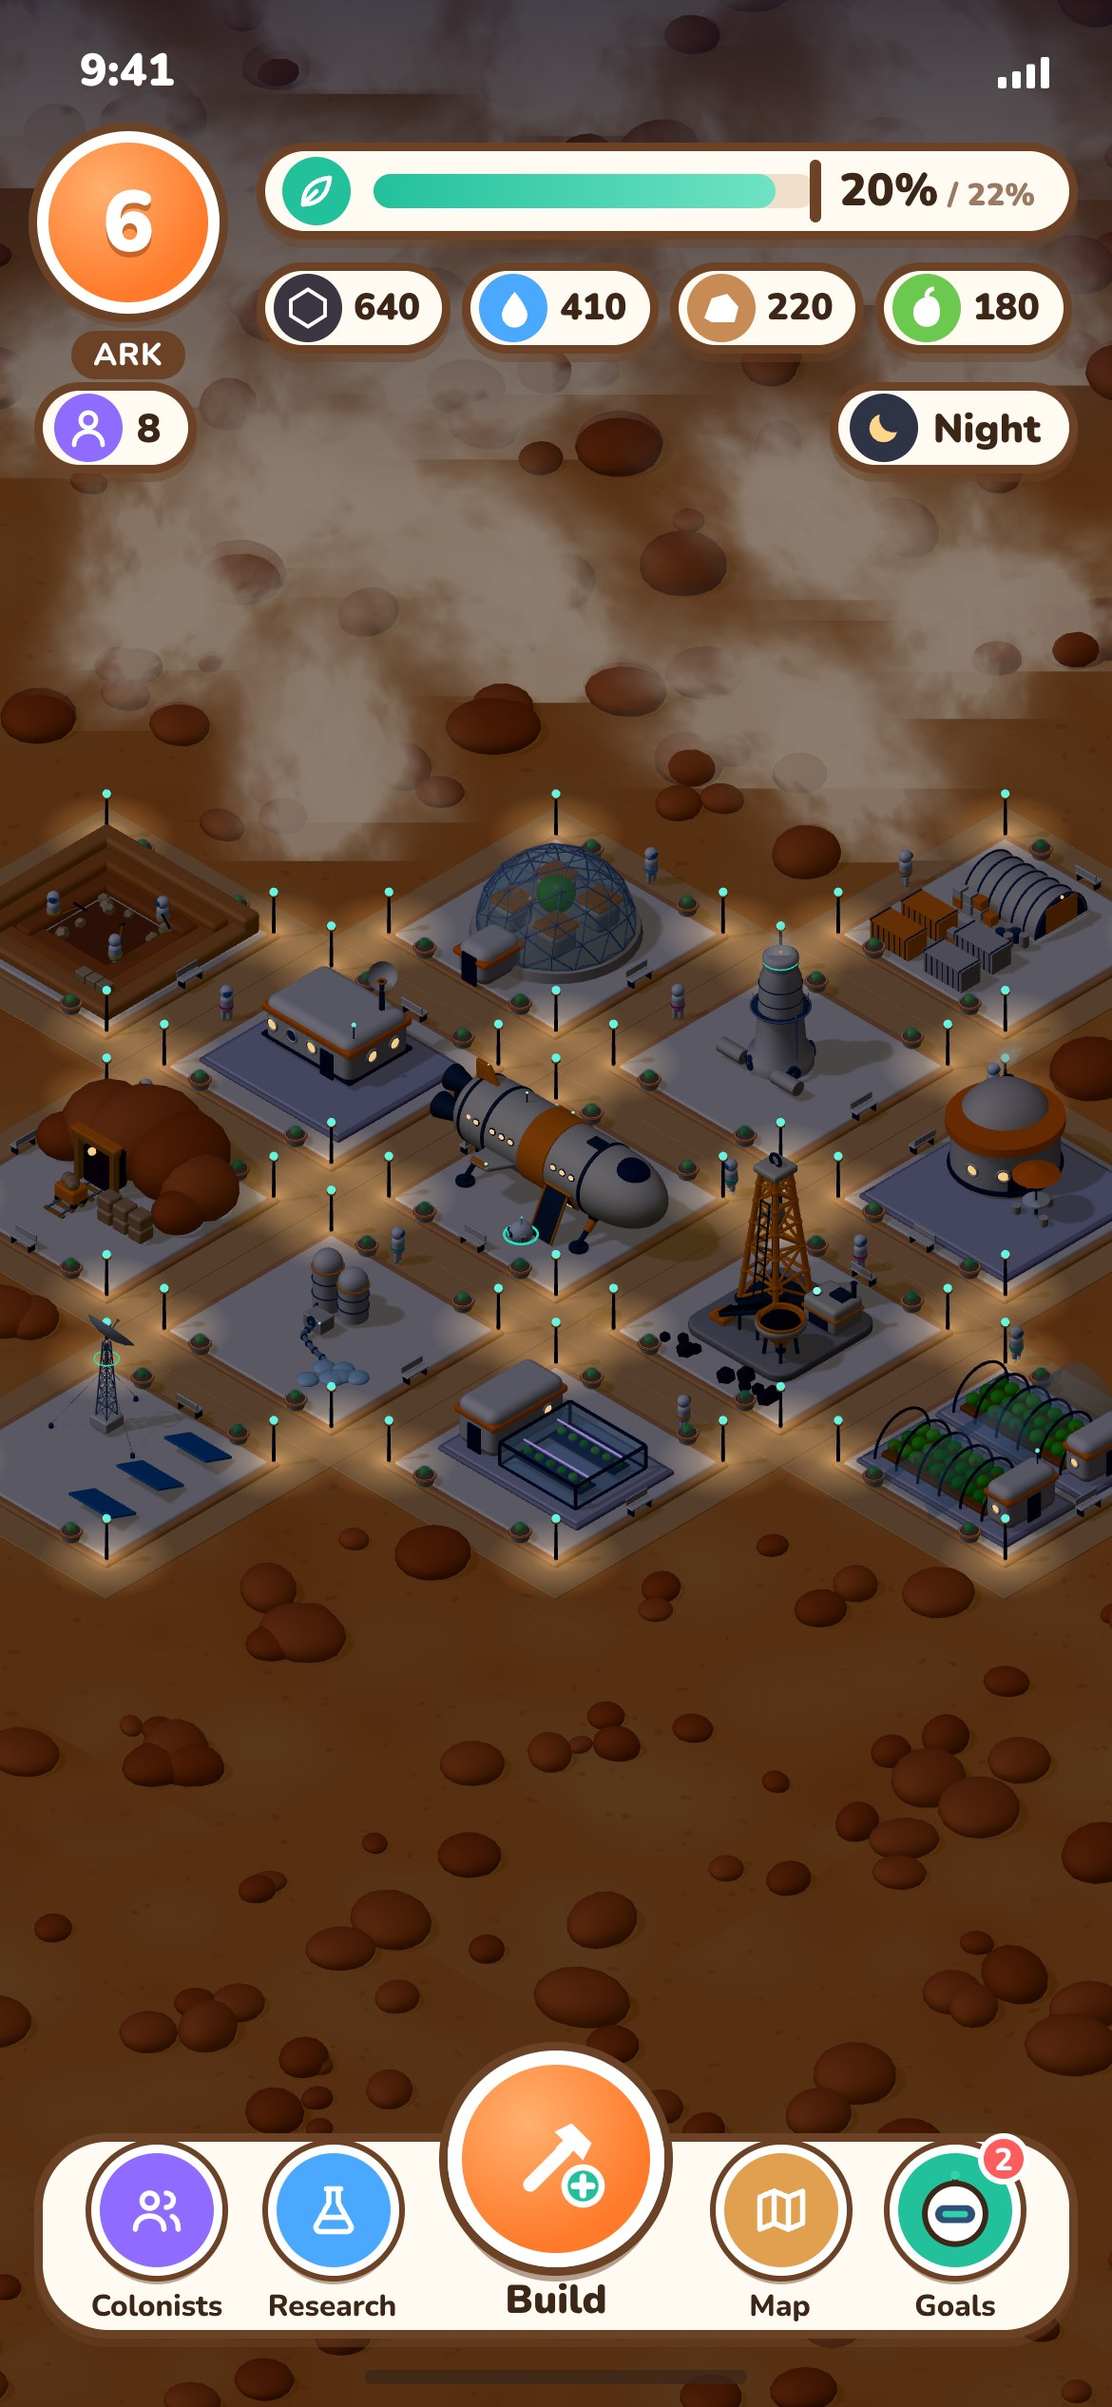
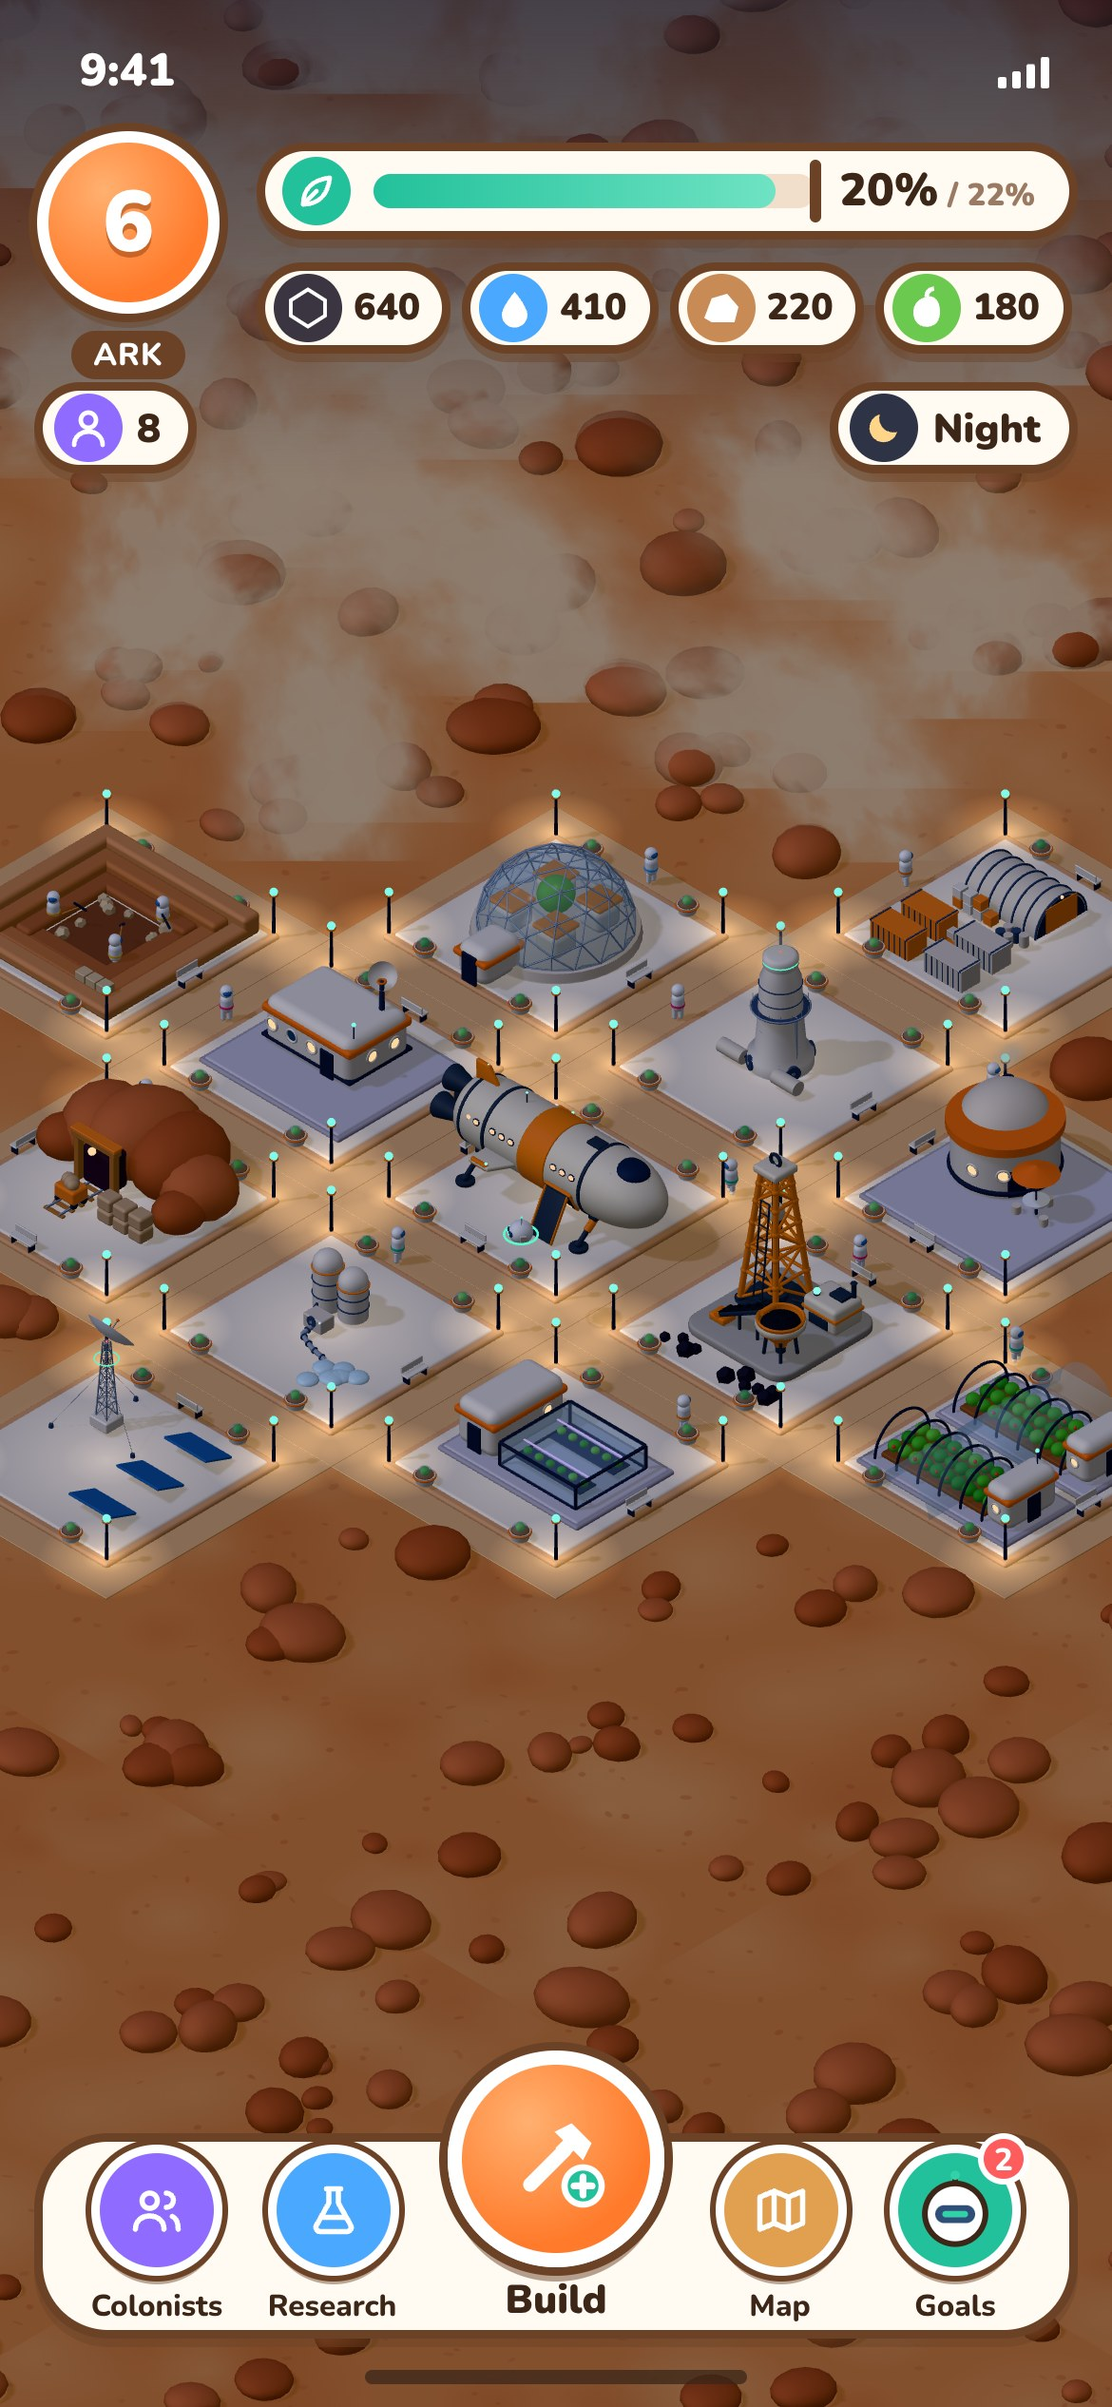
Thin out the street trees and light the example map's nights more
One tree or bush and one hedge per side of a block, fewer trees in the
parks and the woods; at night more moonlight, stronger window, strip and
lamp glow and a soft light around every building.

Claude-Session: https://claude.ai/code/session_0132t83ZzM4eeAffyHvqyc3N

diff --git a/mockup/src/map.js b/mockup/src/map.js
@@ -40,9 +40,9 @@ document.getElementById('view').appendChild(renderer.domElement);
 const scene = new THREE.Scene();
 scene.background = new THREE.Color(LOOK.bg);
 scene.environment = new THREE.PMREMGenerator(renderer).fromScene(new RoomEnvironment(), 0.04).texture;
-scene.environmentIntensity = NIGHT ? 0.06 : 0.35;
-scene.add(new THREE.HemisphereLight(LOOK.sky, LOOK.bounce, NIGHT ? 0.2 : 1.05));
-const sun = new THREE.DirectionalLight(LOOK.sun, NIGHT ? 0.32 : 2.8);
+scene.environmentIntensity = NIGHT ? 0.14 : 0.35;
+scene.add(new THREE.HemisphereLight(LOOK.sky, LOOK.bounce, NIGHT ? 0.4 : 1.05));
+const sun = new THREE.DirectionalLight(LOOK.sun, NIGHT ? 0.62 : 2.8);
 sun.position.set(-30, 80, 50); sun.target.position.set(0, 0, 0); scene.add(sun, sun.target);
 sun.castShadow = true; sun.shadow.mapSize.set(4096, 4096); sun.shadow.bias = -0.0004; sun.shadow.normalBias = 0.04; sun.shadow.radius = 5;
 Object.assign(sun.shadow.camera, { left: -110, right: 110, top: 110, bottom: -110, near: 1, far: 300 }); sun.shadow.camera.updateProjectionMatrix();
@@ -59,6 +59,7 @@ Object.assign(K.M, {
   leaf: flat(0x6cc94f), gold: flat(0xffc65c), white: flat(0xffffff),
 });
 const M = K.M;
+if (NIGHT) for (const [m, k] of [[M.warm, 2.2], [M.teal, 2.2], [M.blueGlow, 2.4], [M.engineGlow, 2.6]]) m.emissiveIntensity = k;
 const C = { pad: 0xfff4e4, padEdge: 0xe8b285, rock: 0xcf7a52, rock2: 0xb9643f, walk: [0xf0cfa6, 0xe9e2d6, 0xeef0f2][S], lawn: 0x7fcf5c, lawn2: 0x6bc04f, soil: 0xa9714a, water: 0x58b8f0, water2: 0x8fd6ff };
 
 const add = (o, x = 0, y = 0, z = 0, ry = 0, s = 1) => { o.position.set(x, y, z); o.rotation.y = ry; o.scale.multiplyScalar(s); scene.add(o); return o; };
@@ -249,7 +250,7 @@ const base = {
 const housing = b => { for (const [x, z] of [[-3, -3], [3, -3], [-3, 3], [3, 3]]) home(b.cx + x, b.cz + z); if (S >= 1) { bush(b.cx, b.cz + 0.2, 0.8); bush(b.cx - 0.3, b.cz - 5.2, 0.6); } if (S === 2) for (let i = 0; i < 3; i++) tree(b.cx - 5 + rnd() * 10, b.cz - 5 + rnd() * 10, 0.6); };
 const park = (b, big) => {
   lawn(b.cx, b.cz, 12, 12);
-  for (let i = 0; i < (big ? 12 : 8); i++) { const a = rnd() * 6.28, r = 2.8 + rnd() * 2.2; if (big || i % 2) tree(b.cx + Math.cos(a) * r, b.cz + Math.sin(a) * r, big ? 0.9 + rnd() * 0.5 : 0.6); else bush(b.cx + Math.cos(a) * r, b.cz + Math.sin(a) * r, 0.9); }
+  for (let i = 0; i < (big ? 8 : 6); i++) { const a = rnd() * 6.28, r = 2.8 + rnd() * 2.2; if (big || i % 2) tree(b.cx + Math.cos(a) * r, b.cz + Math.sin(a) * r, big ? 0.9 + rnd() * 0.5 : 0.6); else bush(b.cx + Math.cos(a) * r, b.cz + Math.sin(a) * r, 0.9); }
   if (S > 1) { add(B.fountain(), b.cx, 0.3, b.cz); pool(b.cx, b.cz, 6, 0x8fd6ff, 0.35); } else bush(b.cx, b.cz, 1.2);
   // hedges along the edges of the lawn, with gaps for the paths
   for (const t of [-3.6, 3.6]) { add(B.hedge(3.4), b.cx + t, 0.3, b.cz + 5.6); add(B.hedge(3.4), b.cx + 5.6, 0.3, b.cz + t, Math.PI / 2); add(B.hedge(3.4), b.cx + t, 0.3, b.cz - 5.6); add(B.hedge(3.4), b.cx - 5.6, 0.3, b.cz + t, Math.PI / 2); }
@@ -292,11 +293,11 @@ for (const b of blocks) {
   if (b.built && S === 0) { plot(b); futurePlot(b); continue; }
   // outside the colony: bare rock on the dusty planet, bushes and young trees later, forest at the end
   if (S === 0) { for (let i = 0; i < 6; i++) rock(b.cx - 6 + rnd() * 12, b.cz - 6 + rnd() * 12, 0.6 + rnd() * 1.4); }
-  else if (S === 1) { for (let i = 0; i < 5; i++) rock(b.cx - 6 + rnd() * 12, b.cz - 6 + rnd() * 12, 0.5 + rnd()); for (let i = 0; i < 7; i++) tree(b.cx - 6 + rnd() * 12, b.cz - 6 + rnd() * 12, 0.45 + rnd() * 0.25); for (let i = 0; i < 4; i++) bush(b.cx - 6 + rnd() * 12, b.cz - 6 + rnd() * 12, 0.6); }
-  else { for (let i = 0; i < 20; i++) tree(b.cx - 7 + rnd() * 14, b.cz - 7 + rnd() * 14, 0.9 + rnd() * 0.6); for (let i = 0; i < 6; i++) bush(b.cx - 7 + rnd() * 14, b.cz - 7 + rnd() * 14, 0.8); }
+  else if (S === 1) { for (let i = 0; i < 5; i++) rock(b.cx - 6 + rnd() * 12, b.cz - 6 + rnd() * 12, 0.5 + rnd()); for (let i = 0; i < 4; i++) tree(b.cx - 6 + rnd() * 12, b.cz - 6 + rnd() * 12, 0.45 + rnd() * 0.25); for (let i = 0; i < 3; i++) bush(b.cx - 6 + rnd() * 12, b.cz - 6 + rnd() * 12, 0.6); }
+  else { for (let i = 0; i < 12; i++) tree(b.cx - 7 + rnd() * 14, b.cz - 7 + rnd() * 14, 0.9 + rnd() * 0.6); for (let i = 0; i < 4; i++) bush(b.cx - 7 + rnd() * 14, b.cz - 7 + rnd() * 14, 0.8); }
 }
 // colonists on the pavements: more of them wake up as the colony grows
-for (const b of builtBlocks) people(b.cx, b.cz, [1, 2, 3][S]);
+for (const b of builtBlocks) { people(b.cx, b.cz, [1, 2, 3][S]); pool(b.cx, b.cz, 13, 0xffd9a0, 0.22); }
 // benches, lamps, planters and flowers on the pavements; they get better with each stage
 const noStreet = new Set(['0,-6', '-1,-7', '2,-6']);
 for (const b of builtBlocks) {
@@ -312,10 +313,10 @@ for (const b of builtBlocks) {
       return;
     }
     // from 50%: a tree or a round bush at both ends, long hedges in between, a bench or flowers in the middle
-    for (const t of [-4.4, 4.4]) { const [x, z] = at(t); if (S > 1 && (h + side + (t > 0)) % 3) add(B.planter(2), x, y, z, 0, 0.85); else bush(x, z, 0.75); }
-    for (const t of [-2.2, 2.2]) { const [x, z] = at(t); add(B.hedge(1.9), x, y, z, ry); }
-    const [x, z] = at(0);
-    if ((h + side) % 2) add(B.bench(S), x, y, z, ax ? (ax > 0 ? Math.PI / 2 : -Math.PI / 2) : (az > 0 ? 0 : Math.PI)); else add(B.flowers(1.4, 0.55), x, y, z, ry);
+    const flip = (h + side) % 2 ? 1 : -1;
+    { const [x, z] = at(4.2 * flip); if (S > 1 && side % 2 === 0) add(B.planter(2), x, y, z, 0, 0.85); else if ((h + side) % 3) bush(x, z, 0.7); }
+    { const [x, z] = at(-2.6 * flip); add(B.hedge(2.6), x, y, z, ry); }
+    if ((h + side) % 2) { const [x, z] = at(0.6 * flip); add(B.bench(S), x, y, z, ax ? (ax > 0 ? Math.PI / 2 : -Math.PI / 2) : (az > 0 ? 0 : Math.PI)); }
   });
   // zebra crossings next to the corner the camera sees
   if (S > 0) for (let i = 0; i < 5; i++) { add(rb(0.35, 0.04, 2.3, dashMat, 0.04, 1), b.cx + 3.6 + i * 0.6, 0.1, b.cz + 8); add(rb(2.3, 0.04, 0.35, dashMat, 0.04, 1), b.cx + 8, 0.1, b.cz + 3.6 + i * 0.6); }

diff --git a/mockup/src/colony.js b/mockup/src/colony.js
@@ -26,7 +26,7 @@ function ball(g, r, m, x, y, z, sy = 1) { const b = new THREE.Mesh(ballGeo, m); 
 function band(g, r, t, m, x, y, z) { const o = new THREE.Mesh(new THREE.TorusGeometry(r, t, 8, 40), m); o.rotation.x = Math.PI / 2; o.position.set(x, y, z); g.add(o); return o; }
 // a round window: a navy (or lit) disk with a cream rim, on the +z or the +x side
 function port(g, x, y, z, r, face = 'z', lit = false) {
-  if (NIGHT && !lit) lit = rnd() < 0.6;
+  if (NIGHT && !lit) lit = rnd() < 0.75;
   const p = new THREE.Group();
   p.add(new THREE.Mesh(new THREE.CircleGeometry(r, 24), lit ? P.warm : P.window));
   const rim = new THREE.Mesh(new THREE.TorusGeometry(r, r * 0.2, 8, 24), P.cream); p.add(rim);
@@ -54,7 +54,7 @@ const done = g => { g.traverse(m => { if (m.isMesh) { m.castShadow = !m.material
 let rnd = Math.random, NIGHT = false;
 export const useRng = f => { rnd = f; };
 // at night more windows are lit
-export const setNight = on => { NIGHT = on; };
+export const setNight = on => { NIGHT = on; if (on) for (const [m, k] of [[P.warm, 2.2], [P.teal, 2.2], [P.grow, 2.4], [P.fire, 3.2]]) m.emissiveIntensity = k; };
 
 // ---------- homes: a cream house with a pitched roof, a navy ring, round windows and a door ----------
 // modern (tier 2): a second floor with wide windows, a flat roof with solar panels, a balcony and plants

diff --git a/docs/notes.md b/docs/notes.md
@@ -113,7 +113,7 @@
 
 | Дата | Промяна | Статус |
 | --- | --- | --- |
-| 04.11.2026 | Пацо: примерна карта с камера под ъгъл като в градостроителна игра (по снимка), при атмосфера 20%, 50% и 85%: mockup/map.html, кадри map-atm-20/50/85 в mockup/screens. Предложение: камерата под ъгъл ~36° по диагонала на улиците; решеното досега е „само отгоре“. Нивата 6, 21 и 38 и числата са примерни. Сградите в картата са преправени в стила на Ковчега и сондата (src/colony.js), всяка с различна форма: къща с покрив, блок, оранжерия, рисърч с купол и колба, лаборатория за зеленчуци, кухня с тента и маси, пещ за силиций, плевня, рибарник. От старите кадри са добавени мината с релсите и вагонетката, складът с контейнерите, батериите и корабостроителницата с бойния кораб (при 85%). Сградите се подобряват видимо на трите нива: основни при 20%, подобрени при 50%, модерни при 85% (предложение за това как изглеждат ъпгрейдите). Кариера до мината (кирки → багер и конвейер → голям багер и кран) и улично обзавеждане по нивата: пейки, лампи, саксии (под стъкло при 20%), храсти, дървета, цветя, фонтан. По-гъста зеленина: живи плетове по тротоарите, дървета и храсти на всеки квартал, пешеходни пътеки, малки коли, площад с паметник на Ковчега. Нощни кадри на трите етапа (лампите, прозорците и фаровете светят). По нивата денят и нощта се сменят от ниво 7, така че нощта при 20% (ниво 6) е само за сравнение. Клип 20% → 50% → 85% в mockup/screens/map-clip.mp4. Качено само в клона claude/gifted-albattani-15oyi9, не в main и не в документа в Claude | В работа |
+| 04.11.2026 | Пацо: примерна карта с камера под ъгъл като в градостроителна игра (по снимка), при атмосфера 20%, 50% и 85%: mockup/map.html, кадри map-atm-20/50/85 в mockup/screens. Предложение: камерата под ъгъл ~36° по диагонала на улиците; решеното досега е „само отгоре“. Нивата 6, 21 и 38 и числата са примерни. Сградите в картата са преправени в стила на Ковчега и сондата (src/colony.js), всяка с различна форма: къща с покрив, блок, оранжерия, рисърч с купол и колба, лаборатория за зеленчуци, кухня с тента и маси, пещ за силиций, плевня, рибарник. От старите кадри са добавени мината с релсите и вагонетката, складът с контейнерите, батериите и корабостроителницата с бойния кораб (при 85%). Сградите се подобряват видимо на трите нива: основни при 20%, подобрени при 50%, модерни при 85% (предложение за това как изглеждат ъпгрейдите). Кариера до мината (кирки → багер и конвейер → голям багер и кран) и улично обзавеждане по нивата: пейки, лампи, саксии (под стъкло при 20%), храсти, дървета, цветя, фонтан. По-гъста зеленина: живи плетове по тротоарите, дървета и храсти на всеки квартал, пешеходни пътеки, малки коли, площад с паметник на Ковчега. Нощни кадри на трите етапа (лампите, прозорците и фаровете светят). След прегледа: по-малко дървета по улиците (по едно дърво или храст и един плет на страна) и по-светла нощ, сградите светят повече. По нивата денят и нощта се сменят от ниво 7, така че нощта при 20% (ниво 6) е само за сравнение. Клип 20% → 50% → 85% в mockup/screens/map-clip.mp4. Качено само в клона claude/gifted-albattani-15oyi9, не в main и не в документа в Claude | В работа |
 | 03.11.2026 | Жоро: „актуализирай и качи“. Документите в Claude и визията са проверени (без промени от браузъра). В main са качени кадрите на макета по нивата | Готово |
 | 03.11.2026 | Жоро: кадрите на макета по нивата. Новата визия: на ниво 3 мината (скален хълм с вход, релси и вагонетка) вместо кариерата. Старият макет: кадрите 01–07 наново, с текстове на английски; на ниво 10 атмосфера 28%, мината, кухнята и силициевата пещ на мястото на отломките, менюто за строеж с оранжерията, сондата с един работник и подобрение срещу ресурси и време; 7 от 10 скици на ниво 78. Кадрите в документа „ход на играта по концепцията“ са сменени | Готово |
 | 03.11.2026 | Жоро: „актуализирай и качи“. Документите в Claude и визията са проверени (без промени от браузъра). В main е качена работата от 02–03.11.2026: нивата (docs/levels.md), новата визия, ходът по концепцията и всички документи, приведени по нивата | Готово |
